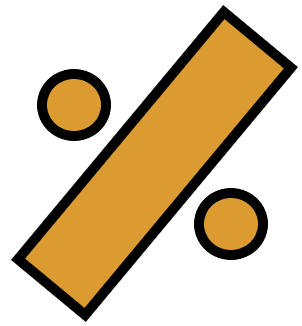
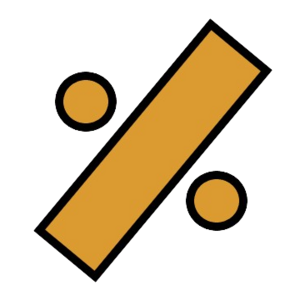
Kuvat muokattu yhtenäisiksi, footer korjattu pohjalle

Changed region(s): [[0.03, 0.0, 0.99, 0.99]]

diff --git a/pelit.html b/pelit.html
@@ -34,7 +34,7 @@
     <div class="row">
       <div class="col">
         <div class="card text-center">
-          <img src="./images/matikkamerkit.png" class="card-img-top" alt="...">
+          <img src="./images/matikkamerkit.png" class="card-img" alt="...">
           <div class="card-body">
             <h5 class="card-title">Yhteen- ja vähennyslaskuja 0-20</h5>
             <p class="card-text">Tässä harjoitellaan yhteen- ja vähennyslaskuja 0-20 välillä.</p>
@@ -44,7 +44,7 @@
       </div>
       <div class="col">
         <div class="card text-center">
-          <img src="./images/matikkamerkit.png" class="card-img-top" alt="...">
+          <img src="./images/matikkamerkit.png" class="card-img" alt="...">
           <div class="card-body">
             <h5 class="card-title">Yhteen- ja vähennyslaskuja 0-100</h5>
             <p class="card-text">Tässä harjoitellaan yhteen- ja vähennyslaskuja 0-100 välillä.</p>
@@ -54,7 +54,7 @@
       </div>
       <div class="col">
         <div class="card text-center">
-          <img src="./images/kerto.png" class="card-img-top" alt="...">
+          <img src="./images/kerto.png" class="card-img" alt="...">
           <div class="card-body">
             <h5 class="card-title">Kertolaskut 1-5, 10</h5>
             <p class="card-text">Tässä harjoitellaan kertolaskuja.</p>
@@ -66,7 +66,7 @@
       </div>
       <div class="col">
         <div class="card text-center">
-          <img src="./images/jako.png" class="card-img-top" alt="...">
+          <img src="./images/jako.png" class="card-img" alt="...">
           <div class="card-body">
             <h5 class="card-title">Jakolaskut 1-5, 10</h5>
             <p class="card-text">Tässä harjoitellaan jakolaskuja.</p>
@@ -78,7 +78,7 @@
       </div>
       <div class="col">
         <div class="card text-center">
-          <img src="" class="card-img-top" alt="...">
+          <img src="" class="card-img" alt="...">
           <div class="card-body">
             <h5 class="card-title">Kellonajat</h5>
             <p class="card-text">Tässä harjoitellaan kellonaikoja.</p>
@@ -90,7 +90,7 @@
       </div>
       <div class="col">
         <div class="card text-center">
-          <img src="" class="card-img-top" alt="...">
+          <img src="./images/mittanauha.png" class="card-img" alt="...">
           <div class="card-body">
             <h5 class="card-title">Mittayksiköt</h5>
             <p class="card-text">Tässä harjoitellaan pituuden mittayksiköitä.</p>

diff --git a/css/style_main.css b/css/style_main.css
@@ -35,6 +35,7 @@ footer {
     color: #F5EBB8; /* vaalea beige */
     padding: 16px 0;
     text-align: center;
+    margin-top: auto;
 }
 
 h1 {
@@ -73,8 +74,9 @@ img:hover { /*mango pyörähtää kun hiiri viedään sen päälle*/
     text-align: justify;
 }
 
-.card-img-top {  /*viittaus pelit sivun korttien kuviin*/
-    max-width: 50%;
+.card-img {  /*viittaus pelit sivun korttien kuviin*/
+    max-width: 70%;
+    object-fit: cover;
 }
 
 .card { /*pelit-sivun korttien muotoilu*/
